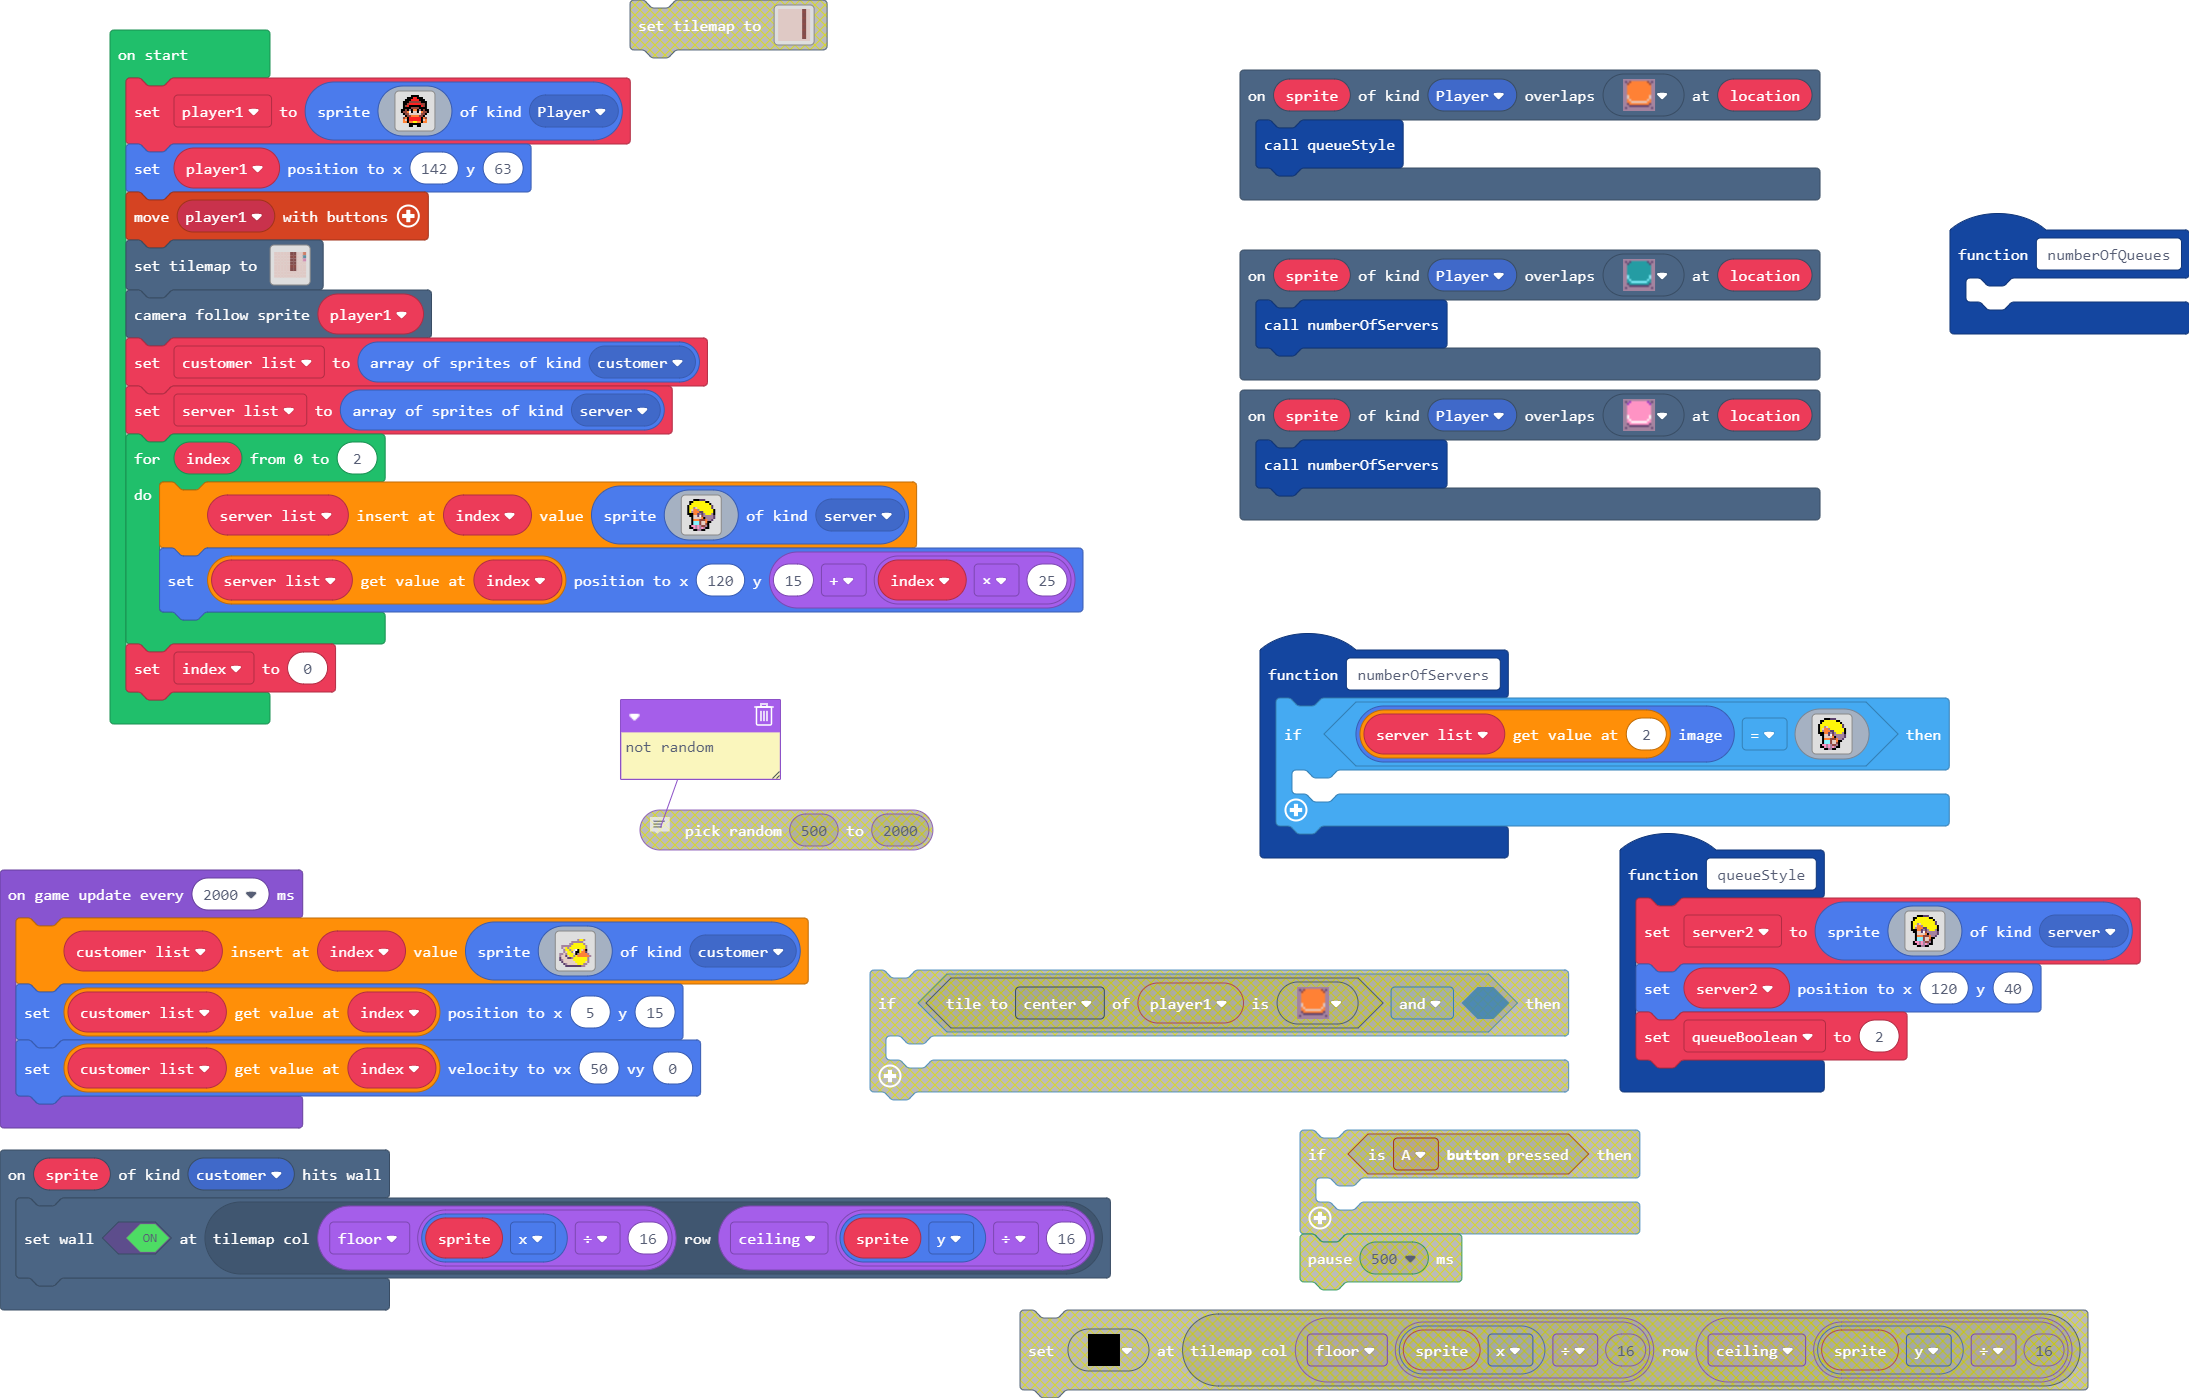
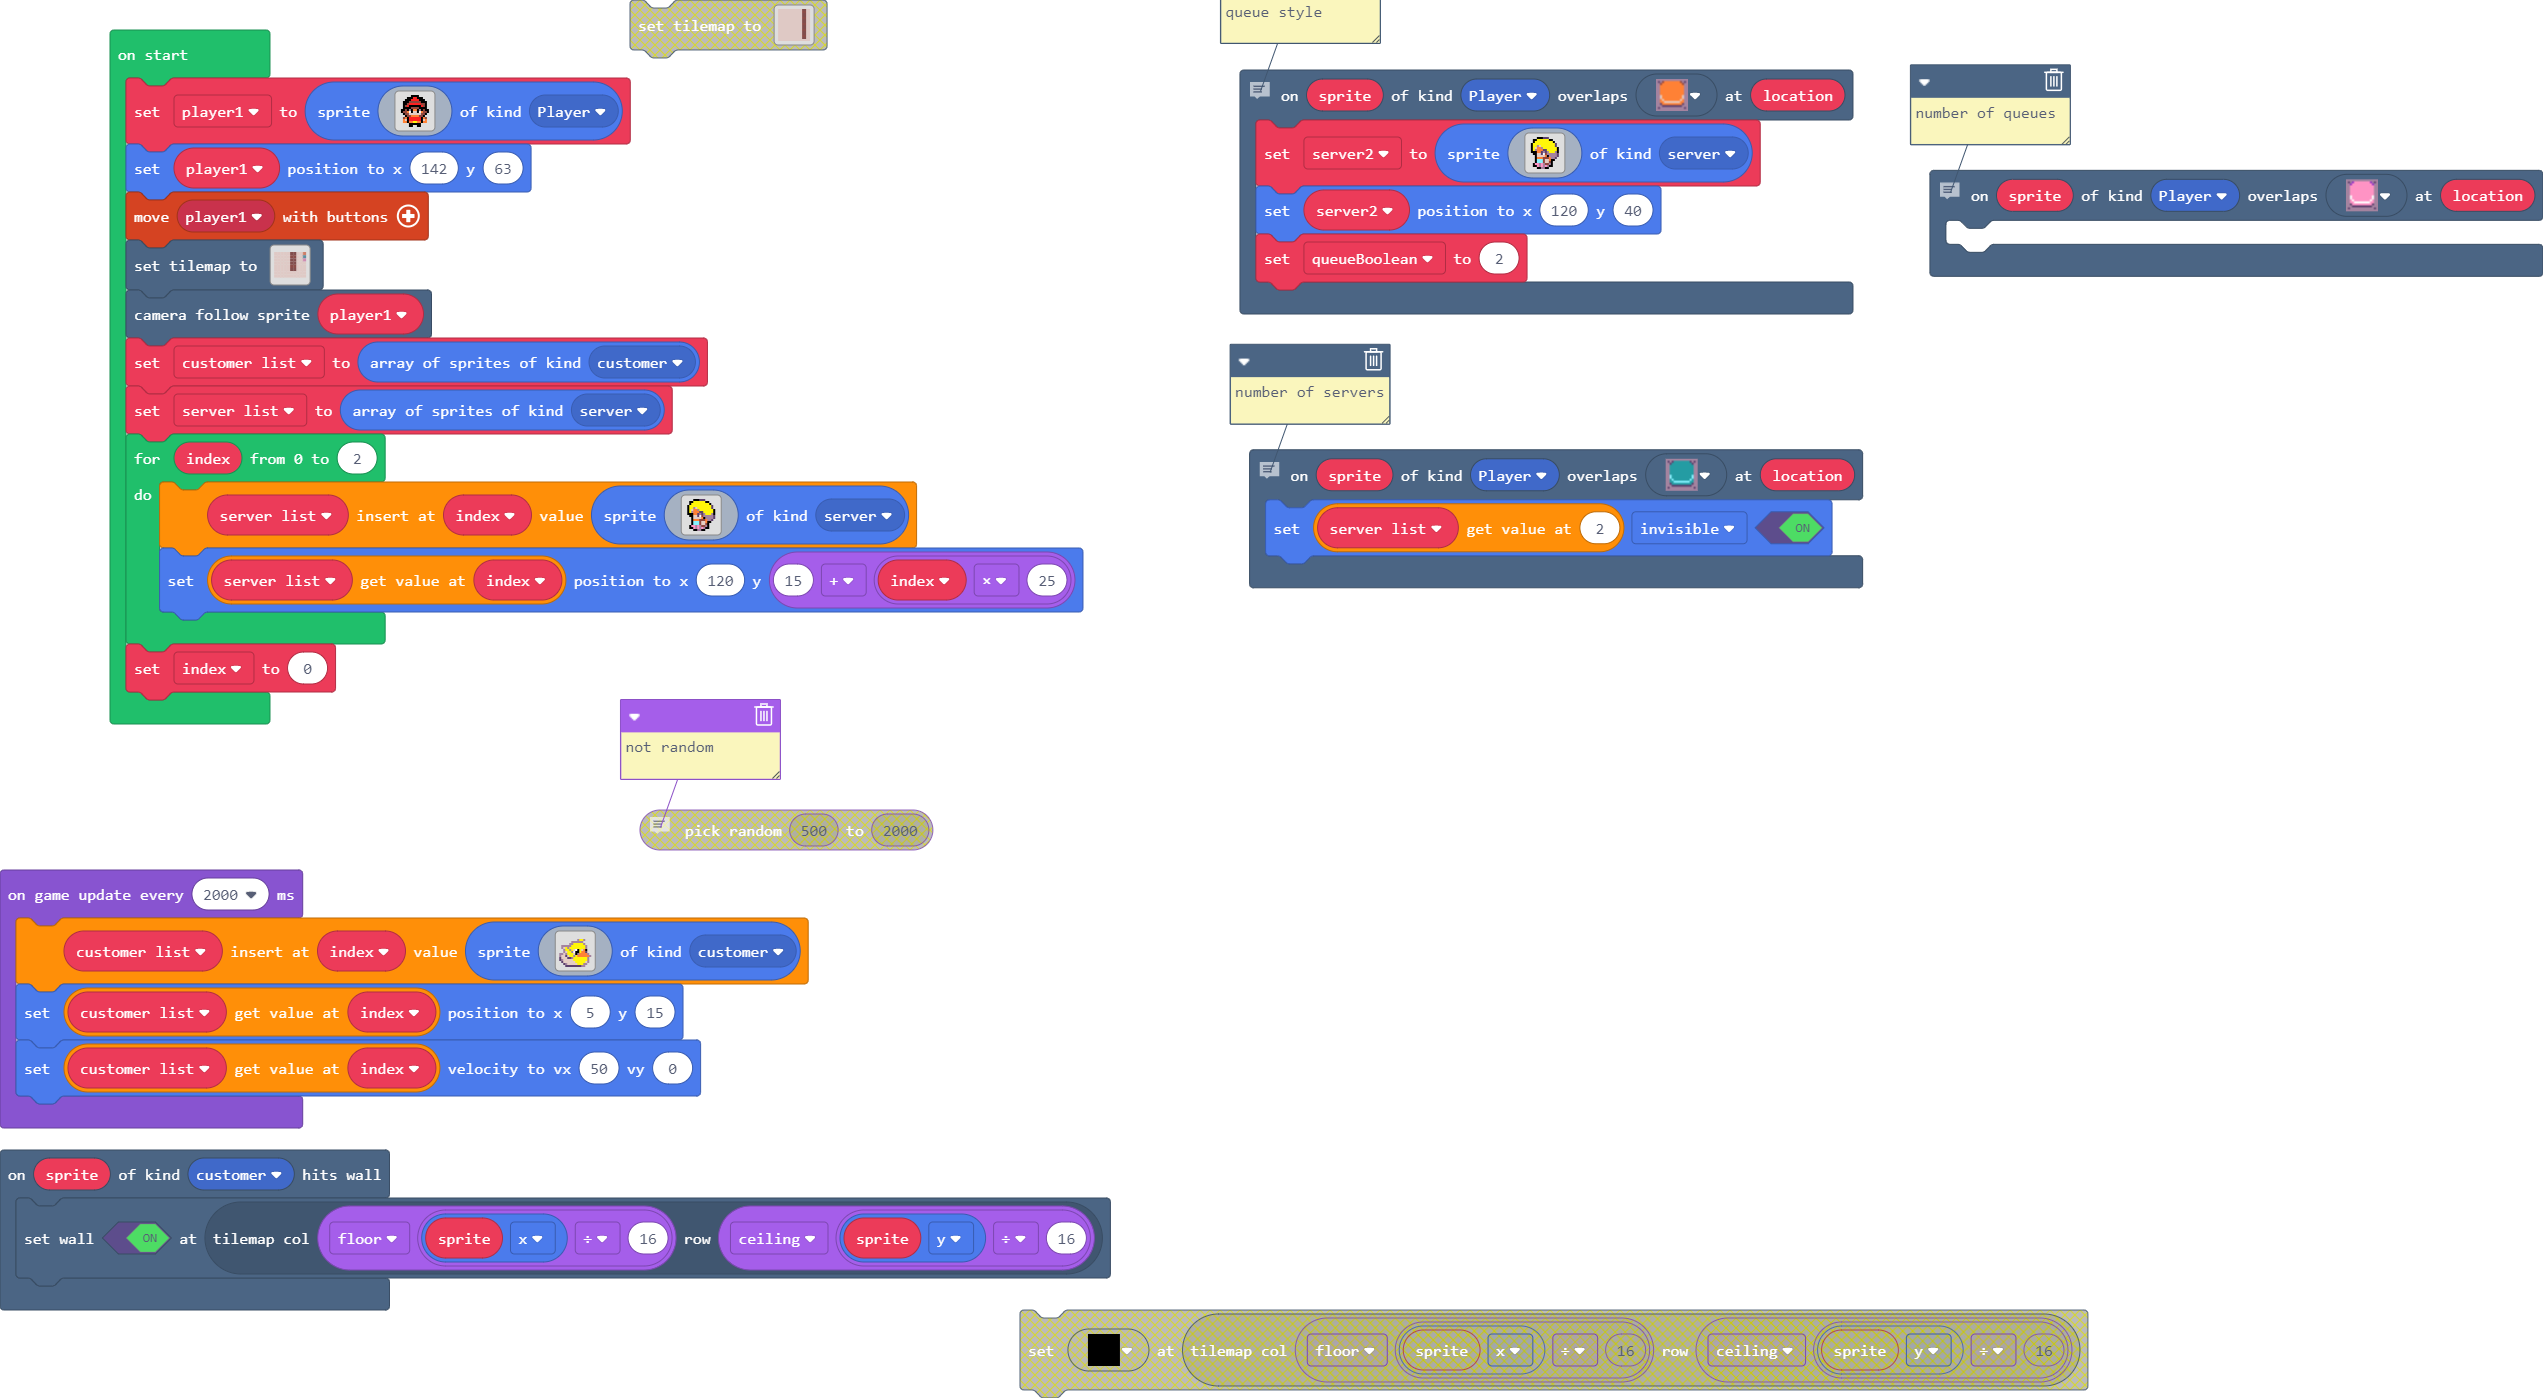
Update main.blocks, main.ts

diff --git a/main.ts b/main.ts
@@ -159,16 +159,19 @@ f c e 1 e e e e e e e e e e e e
 f c e 1 e e e e e e e e e e e e 
 `
 }
-function numberOfQueues () {
-	
-}
+// number of queues
 scene.onOverlapTile(SpriteKind.Player, sprites.dungeon.buttonPink, function (sprite, location) {
-    numberOfServers()
+	
 })
+// number of servers
 scene.onOverlapTile(SpriteKind.Player, sprites.dungeon.buttonTeal, function (sprite, location) {
-    numberOfServers()
+    server_list[2].setFlag(SpriteFlag.Invisible, true)
 })
-function queueStyle () {
+scene.onHitWall(SpriteKind.customer, function (sprite) {
+    tiles.setWallAt(tiles.getTileLocation(Math.floor(sprite.x / 16), Math.ceil(sprite.y / 16)), true)
+})
+// queue style
+scene.onOverlapTile(SpriteKind.Player, sprites.dungeon.buttonOrange, function (sprite, location) {
     server2 = sprites.create(img`
 . . . f f f c c c . . . . . 
 . f f 5 5 5 5 5 5 f f . . . 
@@ -189,34 +192,6 @@ f f f 4 4 c b c b 5 5 5 b f
 `, SpriteKind.server)
     server2.setPosition(120, 40)
     queueBoolean = 2
-}
-scene.onHitWall(SpriteKind.customer, function (sprite) {
-    tiles.setWallAt(tiles.getTileLocation(Math.floor(sprite.x / 16), Math.ceil(sprite.y / 16)), true)
-})
-function numberOfServers () {
-    if (server_list[2].image == img`
-. . . f f f c c c . . . . . 
-. f f 5 5 5 5 5 5 f f . . . 
-. f 5 5 5 5 5 5 5 5 5 f . . 
-f 5 5 5 5 5 5 5 5 5 5 5 c . 
-f 5 5 b d 5 5 5 5 5 5 5 c . 
-f 5 d 4 4 b 5 5 5 5 5 5 5 f 
-f 5 b 4 4 4 c c 5 5 5 5 5 f 
-f f f 4 4 c b c b 5 5 5 b f 
-. f f d d c 1 e b b b b b c 
-. . f d d d d 4 f b b b b c 
-. . f 4 4 4 e e e 4 b b c . 
-. . f 9 9 9 e d d 4 f f . . 
-. . f 9 9 9 e d d e f . . . 
-. f 3 3 b 3 b e e b f . . . 
-. f f 3 b 3 b 3 b f f . . . 
-. . . f f b b f f . . . . . 
-`) {
-    	
-    }
-}
-scene.onOverlapTile(SpriteKind.Player, sprites.dungeon.buttonOrange, function (sprite, location) {
-    queueStyle()
 })
 let queueBoolean = 0
 let server2: Sprite = null
